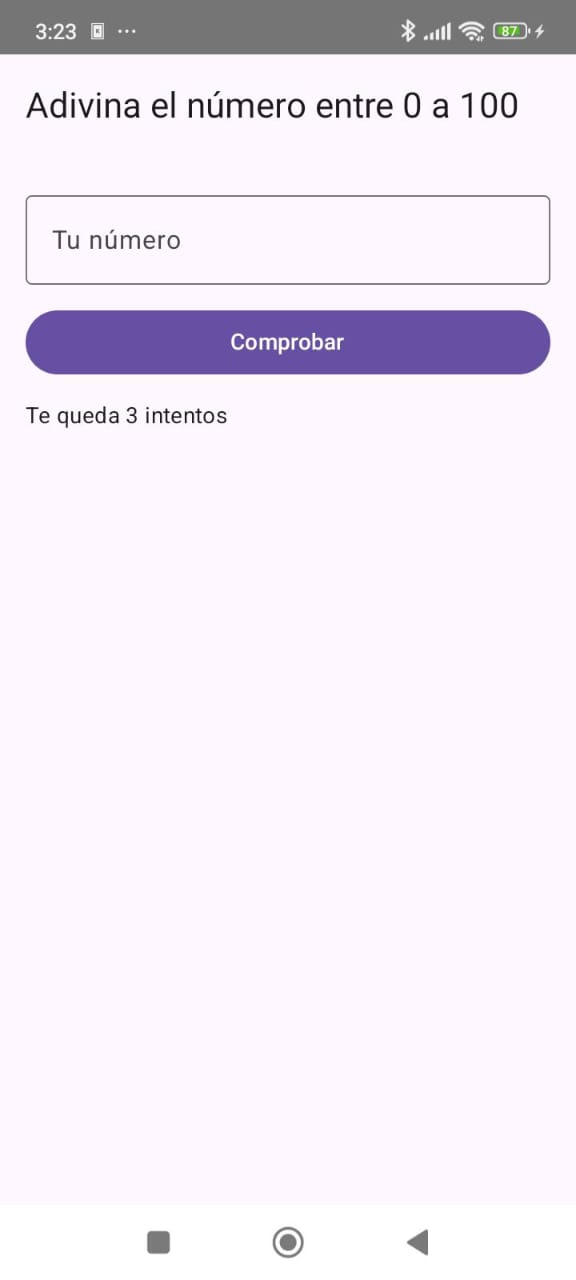
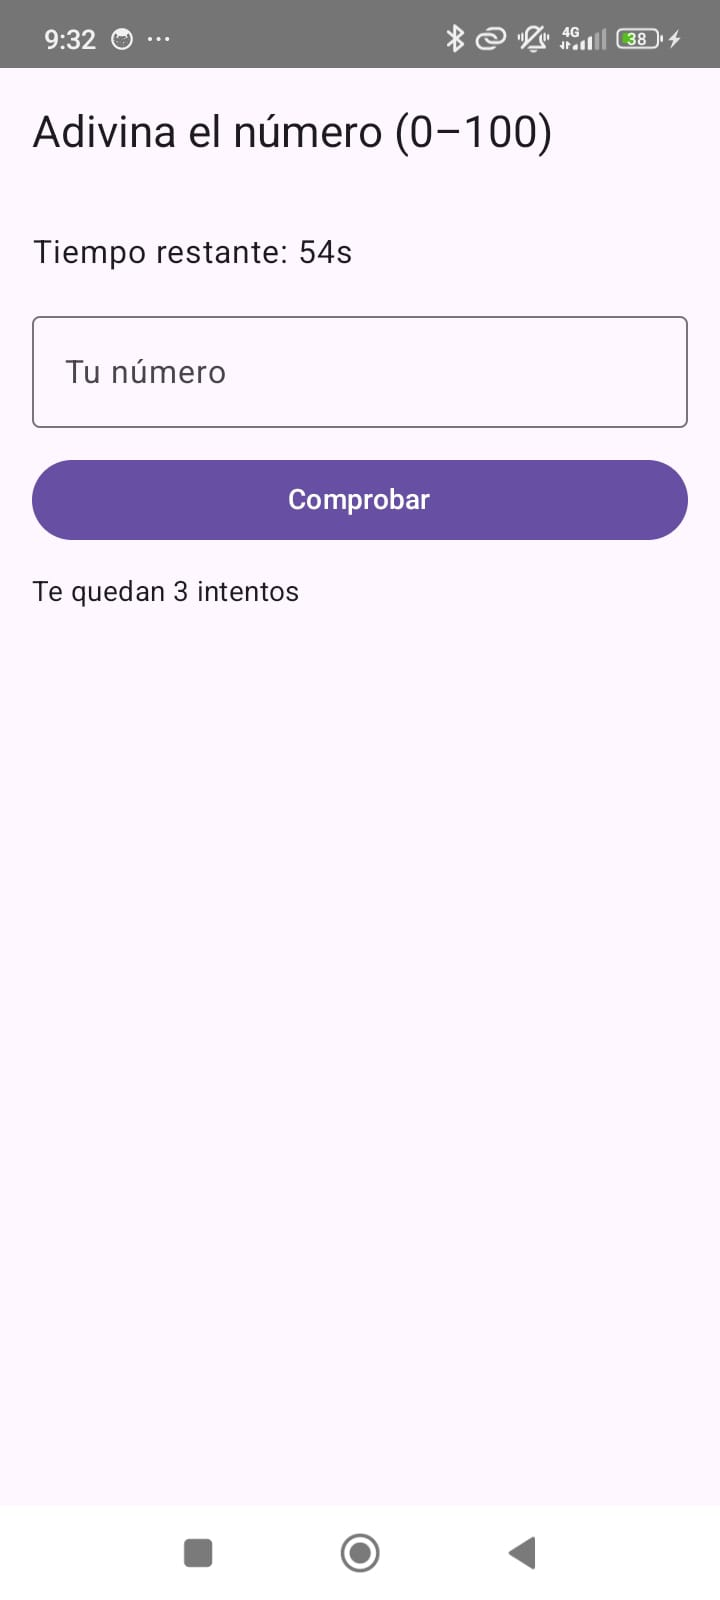
carga de temporizador

diff --git a/app/src/main/java/com/example/adivinarnumero/MainActivity.kt b/app/src/main/java/com/example/adivinarnumero/MainActivity.kt
@@ -1,4 +1,3 @@
-//Allan Vega 8-1001-2089 1SF242
 package com.example.adivinarnumero
 
 import android.os.Bundle
@@ -9,13 +8,14 @@ import androidx.compose.material3.*
 import androidx.compose.runtime.*
 import androidx.compose.ui.Modifier
 import androidx.compose.ui.unit.dp
+import kotlinx.coroutines.delay
 import kotlin.random.Random
 
 class MainActivity : ComponentActivity() {
     override fun onCreate(savedInstanceState: Bundle?) {
         super.onCreate(savedInstanceState)
         setContent {
-            MaterialTheme {          // Tema de Material3
+            MaterialTheme {
                 AdivinarNumero()
             }
         }
@@ -25,25 +25,49 @@ class MainActivity : ComponentActivity() {
 @OptIn(ExperimentalMaterial3Api::class)
 @Composable
 fun AdivinarNumero() {
-    // Estados mutables
+    // Estados del juego
     var valorSecreto      by remember { mutableStateOf(Random.nextInt(0, 101)) }
     var numeroAdivinado   by remember { mutableStateOf("") }
     var intentosRestantes by remember { mutableStateOf(3) }
-    var feedback    by remember { mutableStateOf("Te queda $intentosRestantes intentos") }
+    var feedback          by remember { mutableStateOf("Te quedan $intentosRestantes intentos") }
 
-    // Función para reiniciar la partida
+    // Estados del temporizador
+    var segundosRestantes by remember { mutableStateOf(60) }
+    var reinicios         by remember { mutableStateOf(0) }
+
+    // Reinicia juego y timer
     fun reiniciarJuego() {
-        valorSecreto       = Random.nextInt(0, 101)
+        valorSecreto      = Random.nextInt(0, 101)
         intentosRestantes = 3
-        numeroAdivinado    = ""
-        feedback     = "Te queda $intentosRestantes intentos"
+        numeroAdivinado   = ""
+        feedback          = "Te quedan $intentosRestantes intentos"
+        segundosRestantes = 60
+        reinicios++
     }
 
-    val gameOver = intentosRestantes <= 0 || feedback.startsWith("Acertaste, felicidades!")
+    // Determina si el juego acabó
+    val gameOver = intentosRestantes <= 0 ||
+            feedback.startsWith("Correcto") ||
+            segundosRestantes <= 0
+
+    // Corutina que actualiza el temporizador cada segundo
+    LaunchedEffect(reinicios) {
+        while (segundosRestantes > 0 &&
+            intentosRestantes > 0 &&
+            !feedback.startsWith("Correcto")) {
+            delay(1_000L)
+            segundosRestantes--
+        }
+        if (segundosRestantes <= 0 &&
+            intentosRestantes > 0 &&
+            !feedback.startsWith("Correcto")) {
+            feedback = "Tiempo agotado. El número era $valorSecreto."
+        }
+    }
 
     Scaffold(
         topBar = {
-            TopAppBar(title = { Text("Adivina el número entre 0 a 100") })
+            TopAppBar(title = { Text("Adivina el número (0–100)") })
         }
     ) { padding ->
         Column(
@@ -53,6 +77,12 @@ fun AdivinarNumero() {
                 .padding(16.dp),
             verticalArrangement = Arrangement.spacedBy(12.dp)
         ) {
+            // Mostrar temporizador
+            Text(
+                text  = "Tiempo restante: ${segundosRestantes}s",
+                style = MaterialTheme.typography.bodyLarge
+            )
+
             OutlinedTextField(
                 value         = numeroAdivinado,
                 onValueChange = { if (!gameOver) numeroAdivinado = it },
@@ -62,7 +92,6 @@ fun AdivinarNumero() {
                 modifier      = Modifier.fillMaxWidth()
             )
 
-            // Botón de adivinar, solo si el juego no ha terminado
             if (!gameOver) {
                 Button(
                     onClick = {
@@ -94,7 +123,6 @@ fun AdivinarNumero() {
                 style = MaterialTheme.typography.bodyMedium
             )
 
-            // Botón de reinicio, solo si el juego terminó
             if (gameOver) {
                 Button(
                     onClick  = { reiniciarJuego() },

diff --git a/README.md b/README.md
@@ -6,3 +6,4 @@
 ![alt text](captura-2.jpeg "Captura 2")
 ![alt text](captura-3.jpeg "Captura 3")
 ![alt text](captura-4.jpeg "Captura 4")
+![alt text](captura-5.jpeg "Captura 5")
